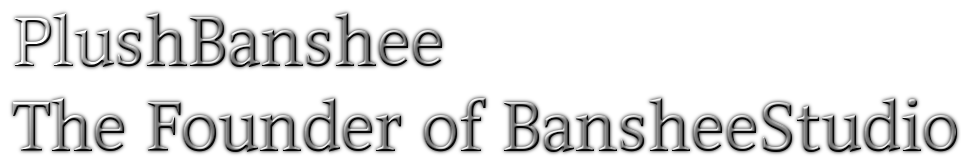
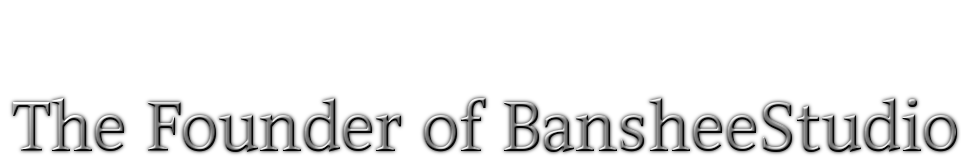
2

Changed region(s): [[0.0, 0.0606, 0.4644, 0.4242]]

diff --git a/index.html b/index.html
@@ -19,7 +19,7 @@
 <div id="wb_stars3" style="position:absolute;left:568px;top:0px;width:324px;height:27px;z-index:3;">
 <img src="images/starsdivider3.gif" id="stars3" alt=""></div>
 <div id="wb_About" style="position:absolute;left:94px;top:66px;width:95px;height:58px;z-index:4;">
-<a href="#" onclick="ShowObject('wb_AboutBG', 1);ShowObject('wb_BansheeAv', 1);ShowObject('wb_BansheeName', 1);ShowObject('wb_PlushName', 1);ShowObject('wb_PlushBansheeText', 1);ShowObject('wb_Home', 1);return false;"><img src="images/85HpMWJ.gif" id="About" alt=""></a></div>
+<a href="#" onclick="ShowObject('wb_AboutBG', 1);ShowObject('wb_BansheeAv', 1);ShowObject('wb_BansheeName', 1);ShowObject('wb_PlushName', 1);ShowObject('wb_PlushBansheeText', 1);ShowObject('wb_Home', 1);ShowObject('wb_AG1K', 1);ShowObject('wb_AG1kAV', 1);ShowObject('wb_AG1kText', 1);return false;"><img src="images/85HpMWJ.gif" id="About" alt=""></a></div>
 <div id="wb_Warning" style="position:absolute;left:0px;top:0px;width:1473px;height:1472px;z-index:5;">
 <a href="#" onclick="PlayAudio('BGMusic');ShowObject('wb_Warning', 0);return false;"><img src="images/warning.png" id="Warning" alt=""></a></div>
 <div id="wb_AboutBG" style="position:absolute;left:0px;top:0px;width:1458px;height:1460px;visibility:hidden;z-index:6;">
@@ -30,18 +30,20 @@
 <img src="images/Plush.png" id="PlushName" alt=""></div>
 <div id="wb_BansheeName" style="position:absolute;left:241px;top:150px;width:366px;height:109px;visibility:hidden;z-index:9;">
 <img src="images/Banshee2.png" id="BansheeName" alt=""></div>
-<div id="wb_PlushBansheeText" style="position:absolute;left:45px;top:285px;width:593px;height:101px;visibility:hidden;z-index:10;">
+<div id="wb_PlushBansheeText" style="position:absolute;left:45px;top:216px;width:593px;height:101px;visibility:hidden;z-index:10;">
 <img src="images/BansheeText.png" id="PlushBansheeText" alt=""></div>
 <div id="wb_Home" style="position:absolute;left:673px;top:79px;width:121px;height:41px;visibility:hidden;z-index:11;">
-<a href="#" onclick="ShowObject('wb_AboutBG', 0);ShowObject('wb_BansheeAv', 0);ShowObject('wb_PlushName', 0);ShowObject('wb_BansheeName', 0);ShowObject('wb_PlushBansheeText', 0);ShowObject('wb_Home', 0);return false;"><img src="images/3d6yxON.png" id="Home" alt=""></a></div>
+<a href="#" onclick="ShowObject('wb_AboutBG', 0);ShowObject('wb_BansheeAv', 0);ShowObject('wb_PlushName', 0);ShowObject('wb_BansheeName', 0);ShowObject('wb_PlushBansheeText', 0);ShowObject('wb_Home', 0);ShowObject('wb_AG1K', 0);ShowObject('wb_AG1kAV', 0);ShowObject('wb_AG1kText', 0);return false;"><img src="images/3d6yxON.png" id="Home" alt=""></a></div>
 <div id="wb_BGMusic" style="position:absolute;left:651px;top:512px;width:170px;height:160px;visibility:hidden;z-index:12;">
 <audio id="BGMusic" controls loop>
 <source src="BG Music.mp3" type="audio/mpeg">
 </audio>
 </div>
-<div id="wb_AG1kAV" style="position:absolute;left:49px;top:413px;width:184px;height:184px;visibility:hidden;z-index:13;">
+<div id="wb_AG1kAV" style="position:absolute;left:49px;top:346px;width:184px;height:184px;visibility:hidden;z-index:13;">
 <img src="images/AG1KAvatar.jpg" id="AG1kAV" alt=""></div>
-<div id="wb_AG1K" style="position:absolute;left:146px;top:413px;width:366px;height:109px;visibility:hidden;z-index:14;">
+<div id="wb_AG1K" style="position:absolute;left:149px;top:384px;width:366px;height:109px;visibility:hidden;z-index:14;">
 <img src="images/AK1g.png" id="AG1K" alt=""></div>
+<div id="wb_AG1kText" style="position:absolute;left:45px;top:548px;width:597px;height:96px;visibility:hidden;z-index:15;">
+<img src="images/AG1kText.png" id="AG1kText" alt=""></div>
 </body>
 </html>

diff --git a/index.css b/index.css
@@ -248,3 +248,17 @@ input:focus, textarea:focus, select:focus
    width: 100%;
    height: 100%;
 }
+#wb_AG1kText
+{
+   vertical-align: top;
+}
+#AG1kText
+{
+   border: 0px solid #000000;
+   padding: 0;
+   margin: 0;
+   left: 0;
+   top: 0;
+   width: 100%;
+   height: 100%;
+}
